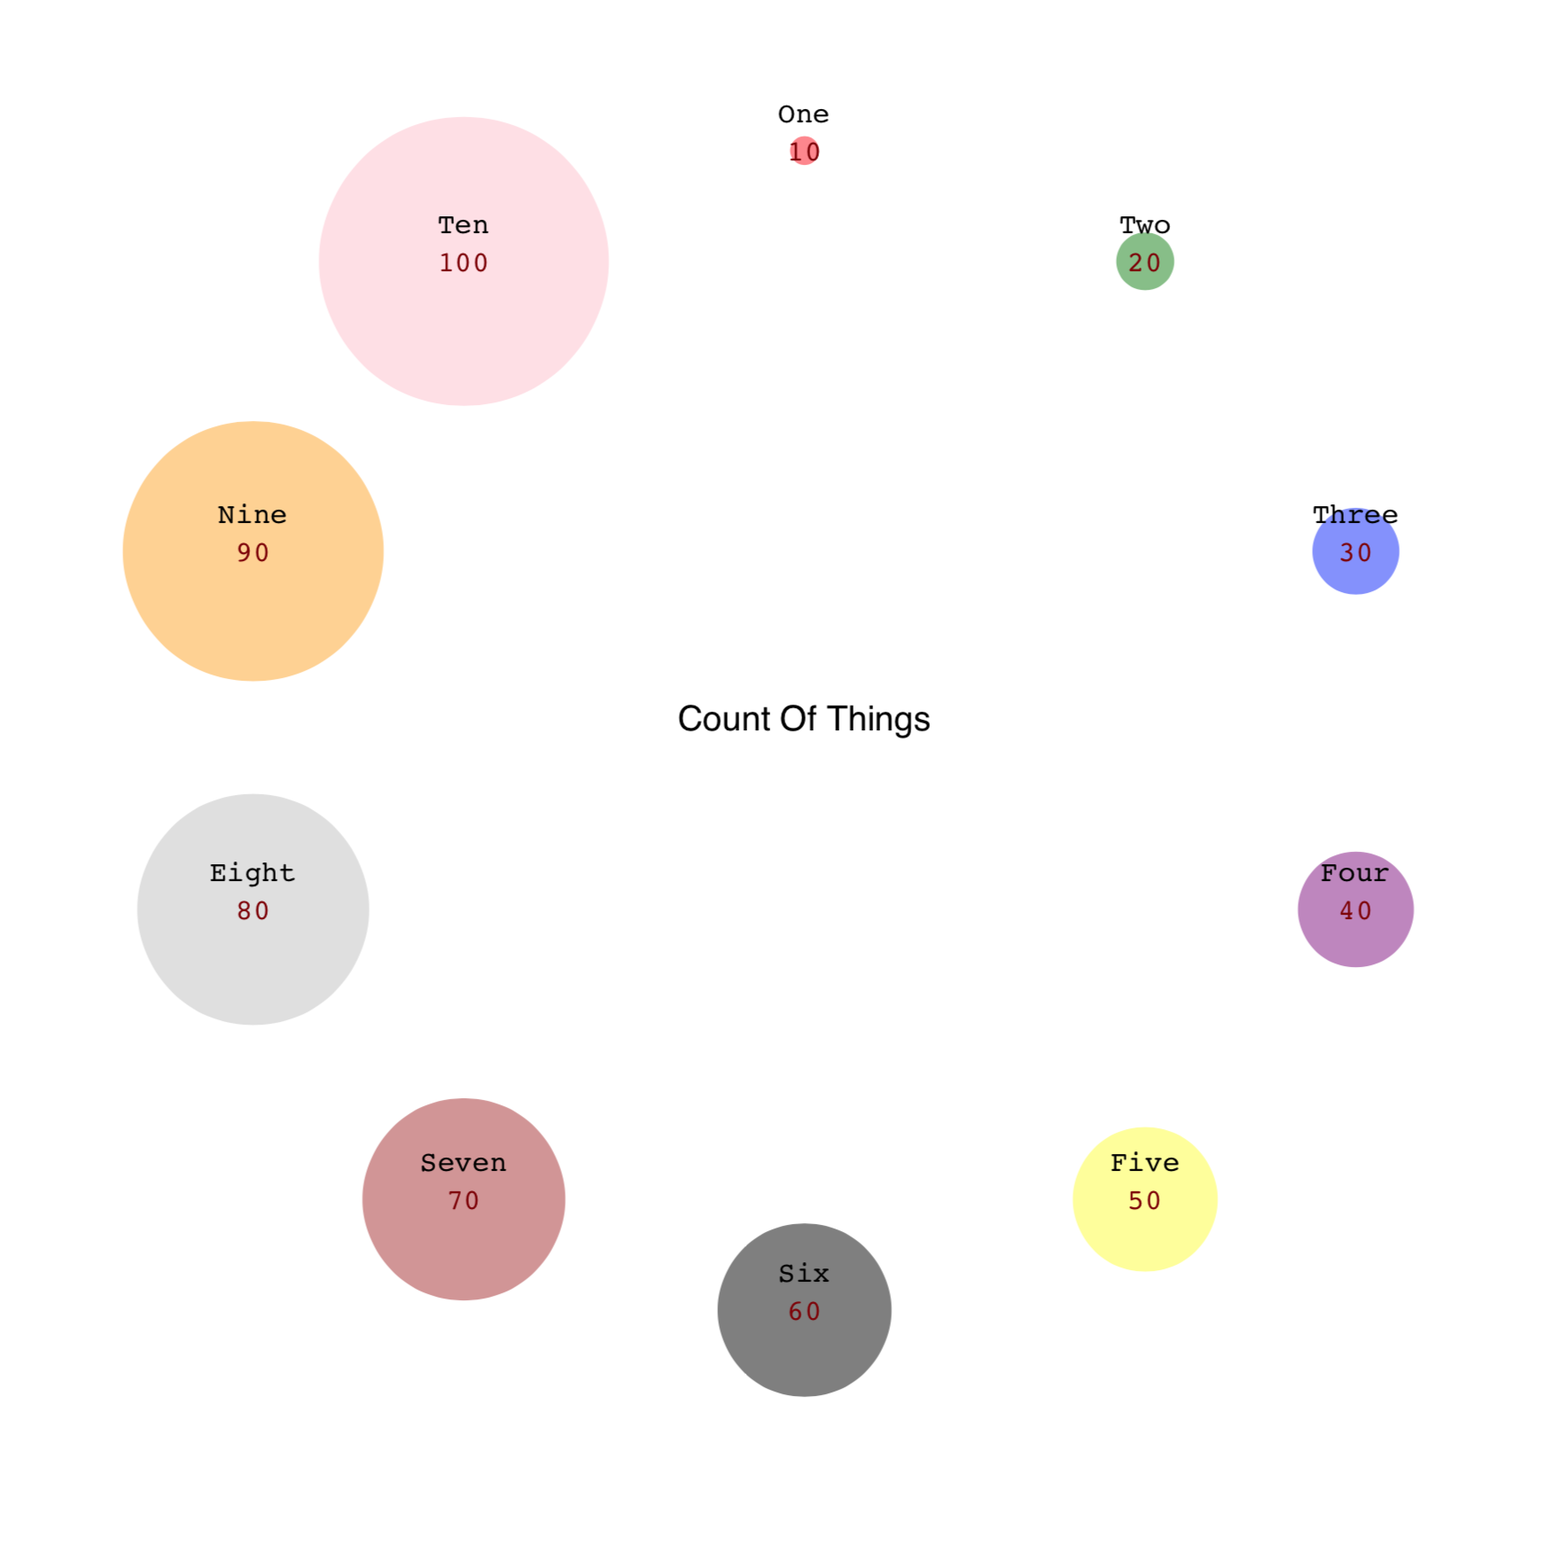
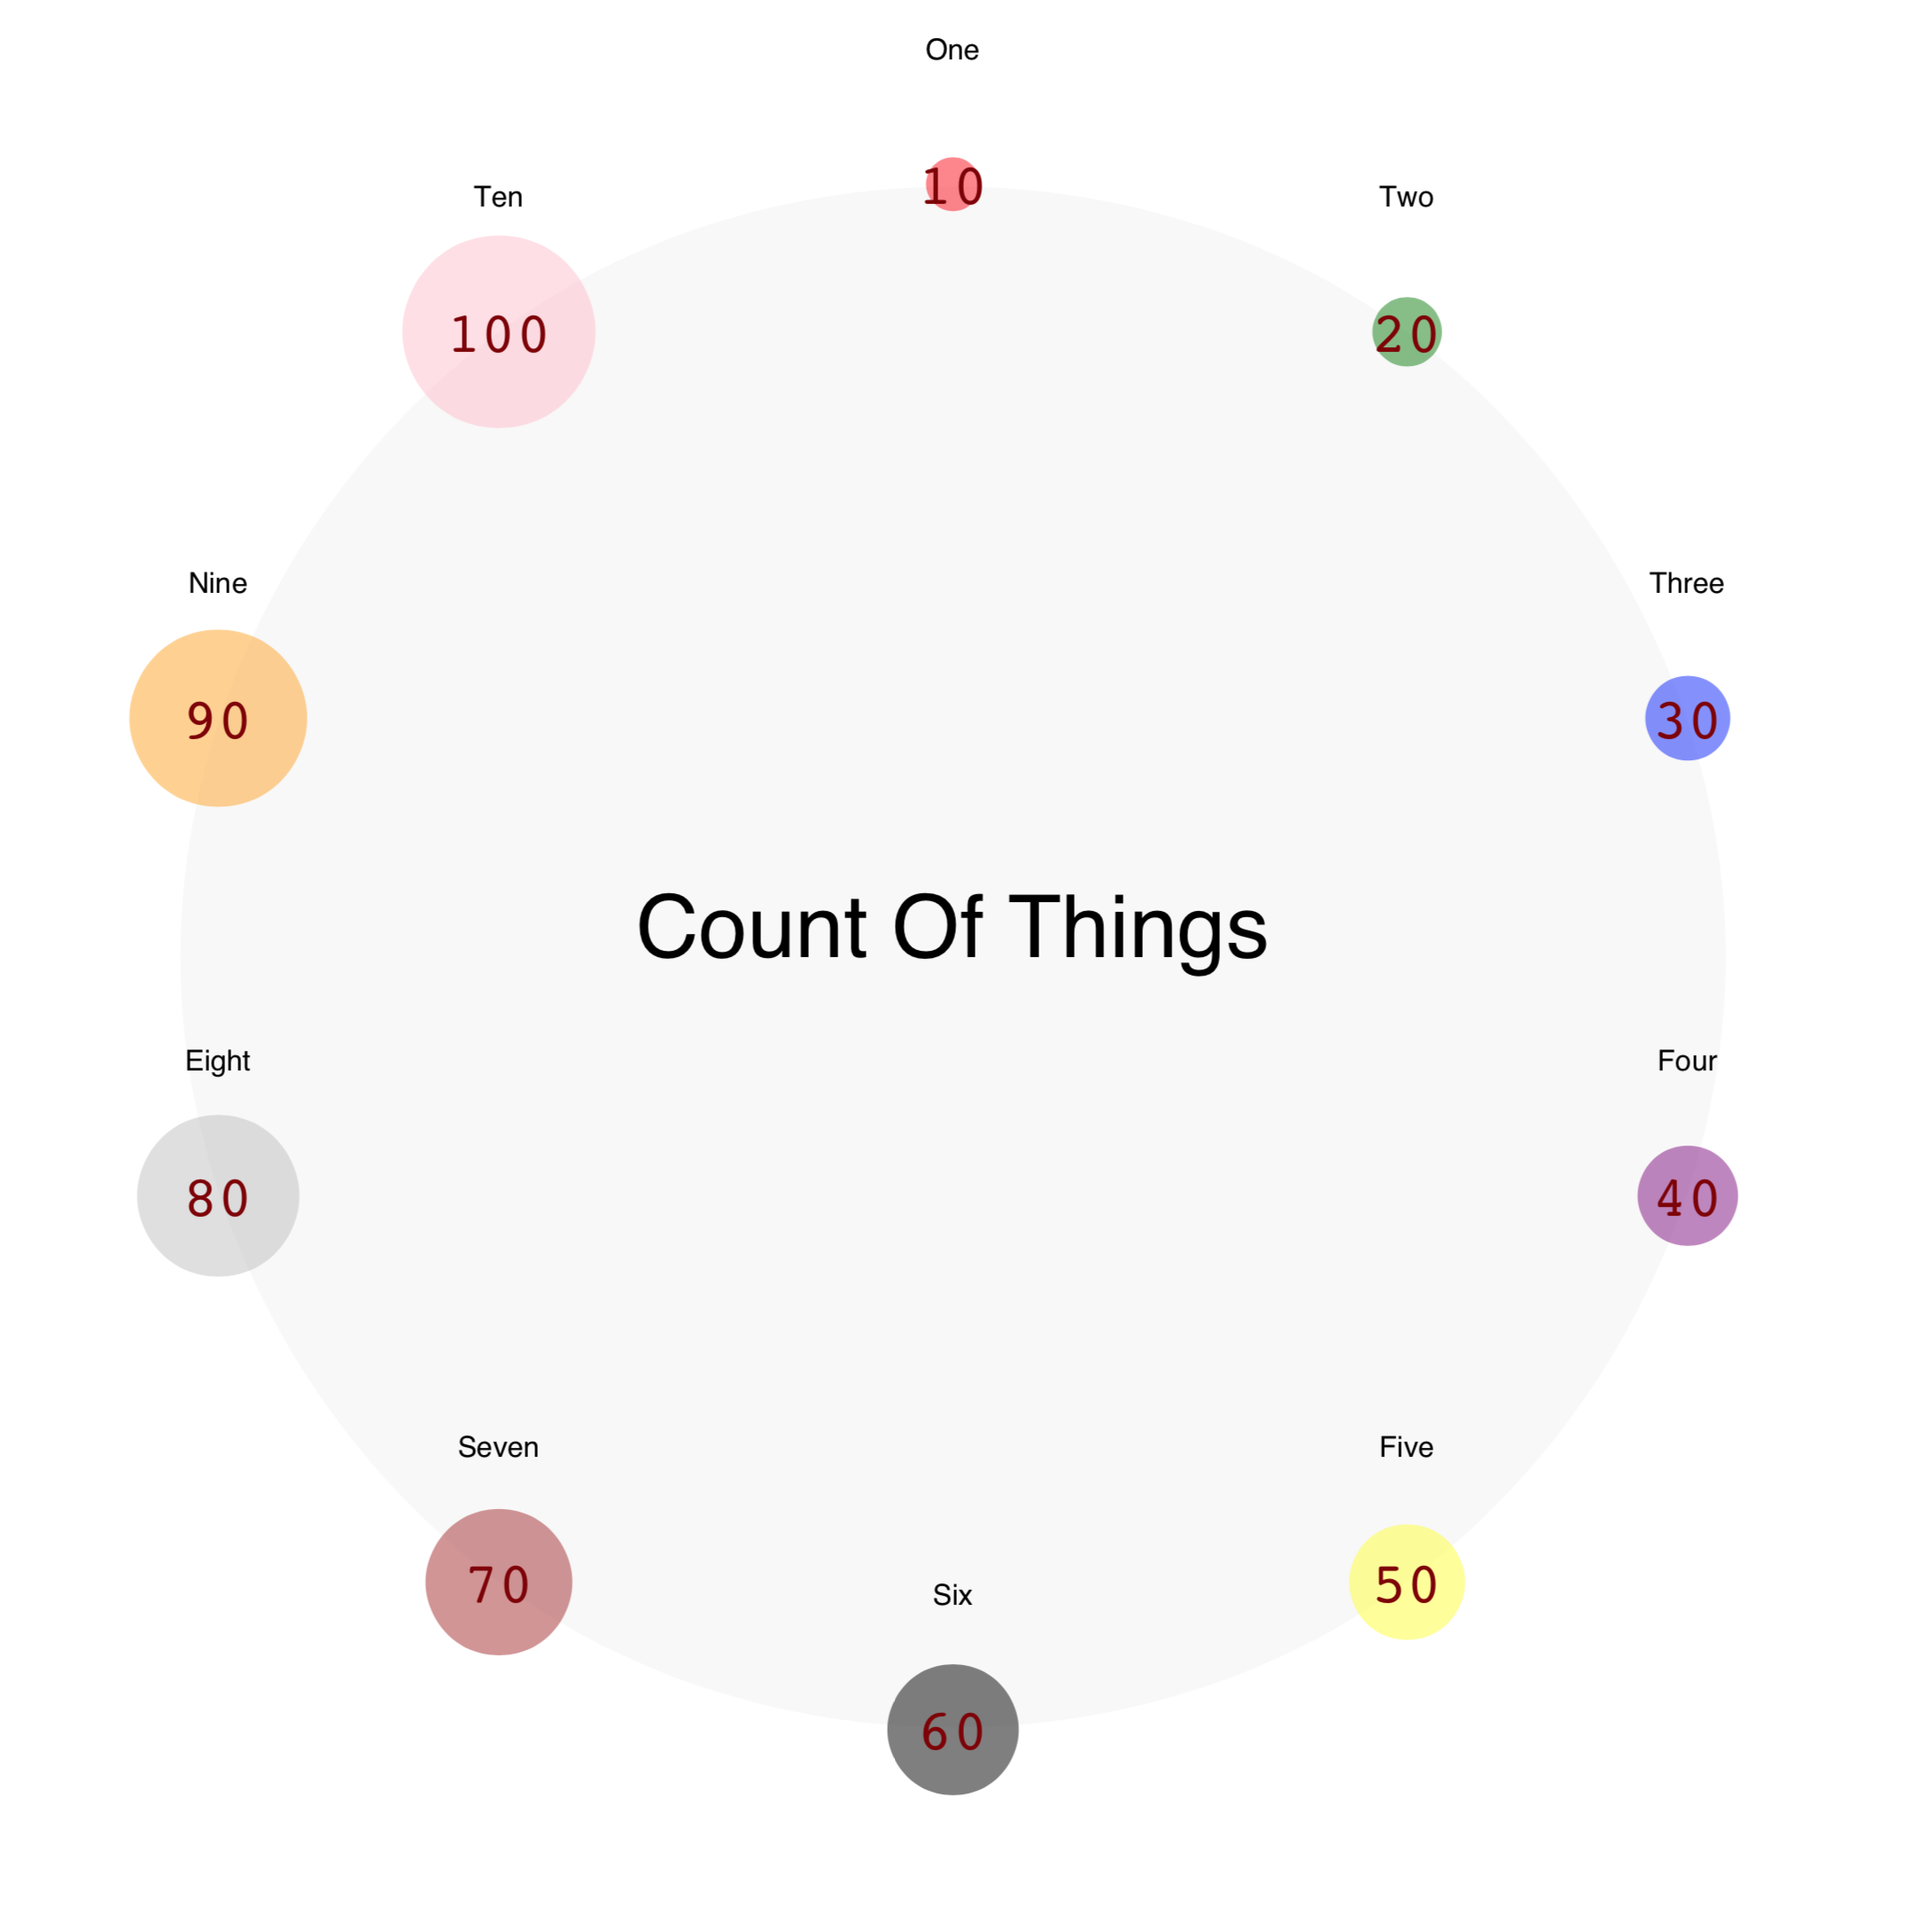
dchart: update README

diff --git a/cmd/dchart/README.md b/cmd/dchart/README.md
@@ -247,5 +247,28 @@ Using this data in count.d:
 	Nine	90	orange
 	Ten	100	pink
 
+	$ dchart -psize=10 -pwidth=40 -left=50 -top=50 -radial -textsize=3 data/incr.d|pdf -pagesize 800,800
+
+
 ![radial](images/radial.png)
+
+Using this data:
+
+	# Clockwise
+	twelve	12	red
+	one	1	green
+	two	2	blue
+	three	3	purple
+	four	4	maroon
+	five	5	black
+	six	6	brown
+	seven	7	silver
+	eight	8	orange
+	nine	9	pink
+	ten	10
+	eleven	11
+
+	$ dchart -psize=10 -pwidth=40 -left=50 -top=50 -radial -textsize=3 -spokes data/clock.d|pdf -pagesize 800,800
+
+![spoke](images/spoke.png)
 
